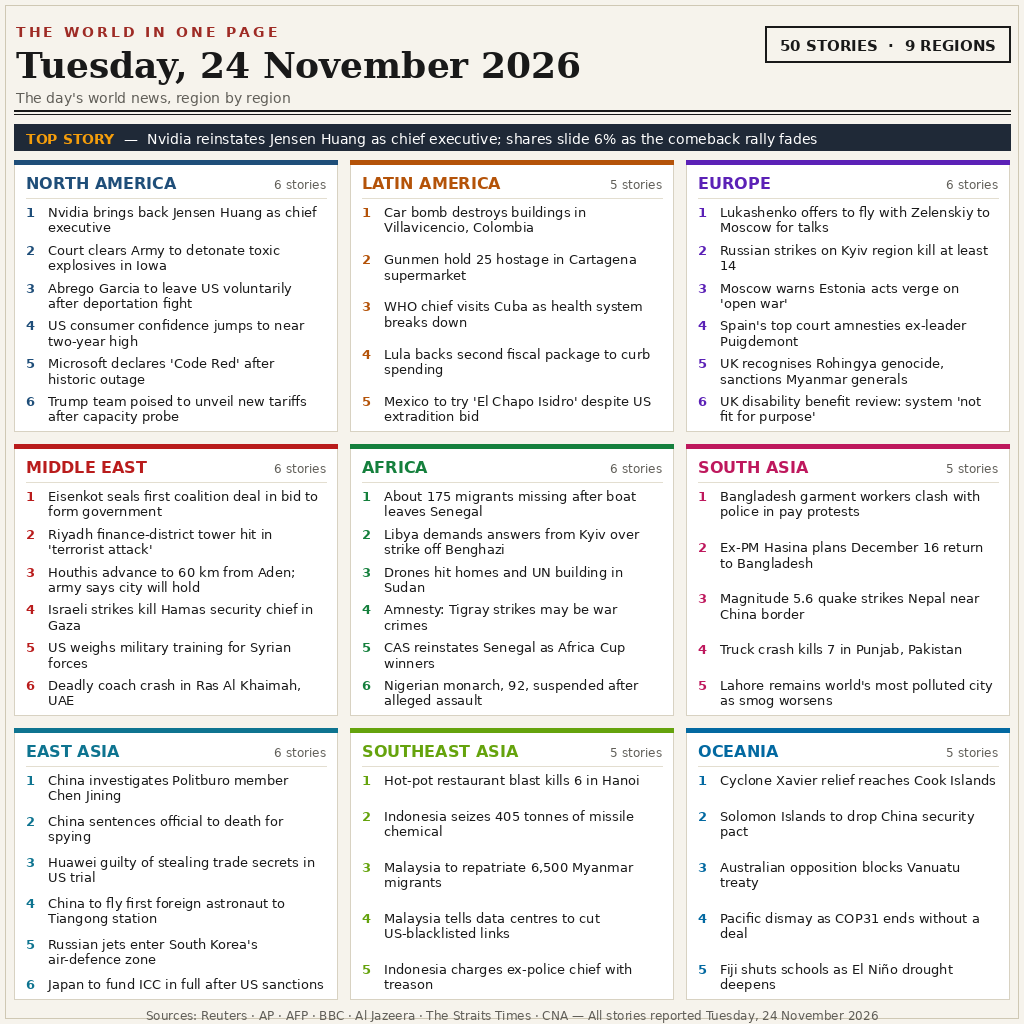
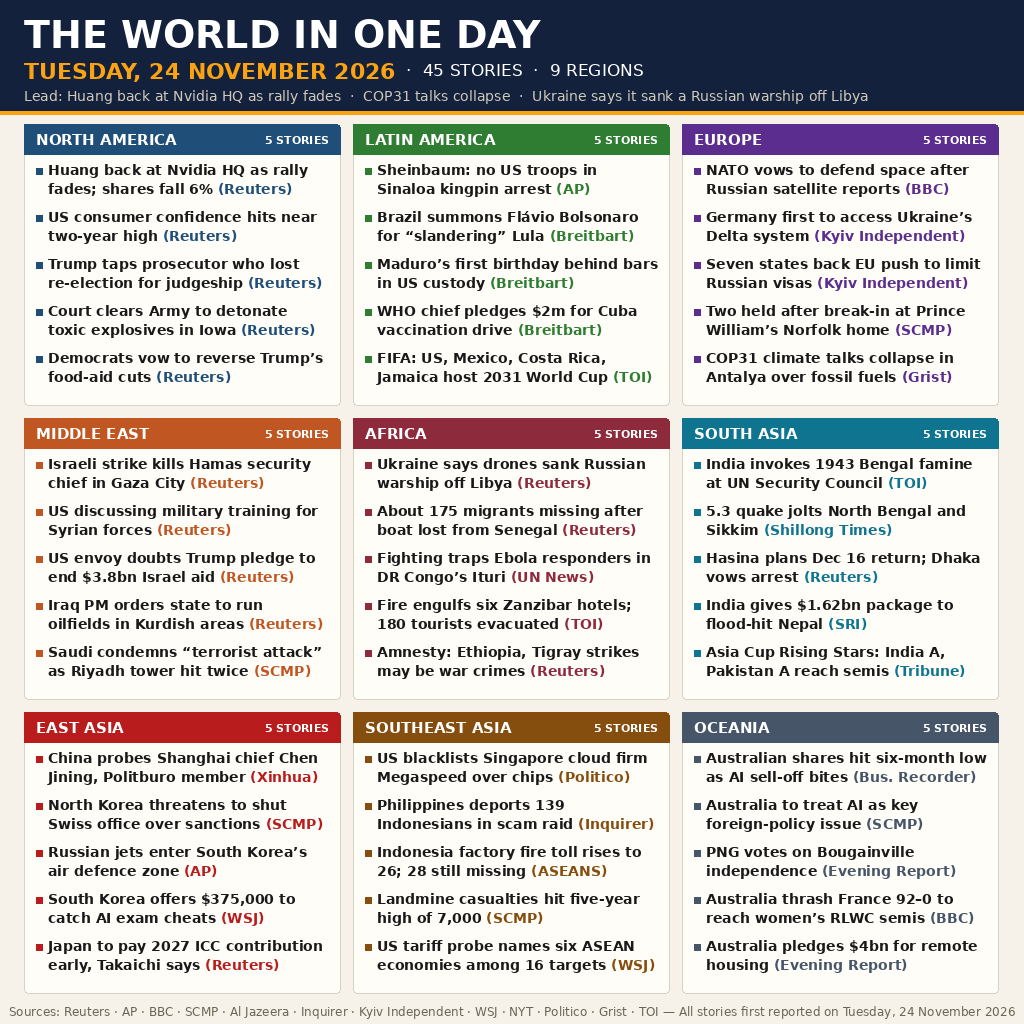
rev3: 45 stories, 9 regions — Tuesday 24 November 2026

diff --git a/draw.py b/draw.py
@@ -1,0 +1,242 @@
+#!/usr/bin/env python3
+"""Draw the 24 November 2026 world-news summary image (1024x1024 PNG).
+
+Reads nothing but the STORIES table below and writes entry.png next to this
+file (or to the path in argv[1]). Deterministic: fixed fonts, fixed layout,
+no timestamps, no randomness, so repeated runs are byte-identical.
+"""
+
+import hashlib
+import os
+import sys
+
+from PIL import Image, ImageDraw, ImageFont
+
+W = H = 1024
+BG = (246, 242, 233)
+CARD = (255, 253, 248)
+INK = (25, 25, 25)
+MUTED = (107, 101, 88)
+LINE = (216, 210, 196)
+HEADER = (20, 33, 61)
+AMBER = (252, 163, 17)
+LEAD_GREY = (207, 202, 187)
+
+FONT_DIR = "/usr/share/fonts/truetype/dejavu"
+BOLD = os.path.join(FONT_DIR, "DejaVuSans-Bold.ttf")
+REG = os.path.join(FONT_DIR, "DejaVuSans.ttf")
+
+# (region, colour, [(headline, source), ...]) — 5 stories each, 9 regions.
+REGIONS = [
+    ("NORTH AMERICA", (31, 78, 121), [
+        ("Huang back at Nvidia HQ as rally fades; shares fall 6%", "Reuters"),
+        ("US consumer confidence hits near two-year high", "Reuters"),
+        ("Trump taps prosecutor who lost re-election for judgeship", "Reuters"),
+        ("Court clears Army to detonate toxic explosives in Iowa", "Reuters"),
+        ("Democrats vow to reverse Trump’s food-aid cuts", "Reuters"),
+    ]),
+    ("LATIN AMERICA", (46, 125, 50), [
+        ("Sheinbaum: no US troops in Sinaloa kingpin arrest", "AP"),
+        ("Brazil summons Flávio Bolsonaro for “slandering” Lula", "Breitbart"),
+        ("Maduro’s first birthday behind bars in US custody", "Breitbart"),
+        ("WHO chief pledges $2m for Cuba vaccination drive", "Breitbart"),
+        ("FIFA: US, Mexico, Costa Rica, Jamaica host 2031 World Cup", "TOI"),
+    ]),
+    ("EUROPE", (91, 45, 142), [
+        ("NATO vows to defend space after Russian satellite reports", "BBC"),
+        ("Germany first to access Ukraine’s Delta system", "Kyiv Independent"),
+        ("Seven states back EU push to limit Russian visas", "Kyiv Independent"),
+        ("Two held after break-in at Prince William’s Norfolk home", "SCMP"),
+        ("COP31 climate talks collapse in Antalya over fossil fuels", "Grist"),
+    ]),
+    ("MIDDLE EAST", (192, 86, 33), [
+        ("Israeli strike kills Hamas security chief in Gaza City", "Reuters"),
+        ("US discussing military training for Syrian forces", "Reuters"),
+        ("US envoy doubts Trump pledge to end $3.8bn Israel aid", "Reuters"),
+        ("Iraq PM orders state to run oilfields in Kurdish areas", "Reuters"),
+        ("Saudi condemns “terrorist attack” as Riyadh tower hit twice", "SCMP"),
+    ]),
+    ("AFRICA", (141, 43, 61), [
+        ("Ukraine says drones sank Russian warship off Libya", "Reuters"),
+        ("About 175 migrants missing after boat lost from Senegal", "Reuters"),
+        ("Fighting traps Ebola responders in DR Congo’s Ituri", "UN News"),
+        ("Fire engulfs six Zanzibar hotels; 180 tourists evacuated", "TOI"),
+        ("Amnesty: Ethiopia, Tigray strikes may be war crimes", "Reuters"),
+    ]),
+    ("SOUTH ASIA", (14, 116, 144), [
+        ("India invokes 1943 Bengal famine at UN Security Council", "TOI"),
+        ("5.3 quake jolts North Bengal and Sikkim", "Shillong Times"),
+        ("Hasina plans Dec 16 return; Dhaka vows arrest", "Reuters"),
+        ("India gives $1.62bn package to flood-hit Nepal", "SRI"),
+        ("Asia Cup Rising Stars: India A, Pakistan A reach semis", "Tribune"),
+    ]),
+    ("EAST ASIA", (185, 28, 28), [
+        ("China probes Shanghai chief Chen Jining, Politburo member", "Xinhua"),
+        ("North Korea threatens to shut Swiss office over sanctions", "SCMP"),
+        ("Russian jets enter South Korea’s air defence zone", "AP"),
+        ("South Korea offers $375,000 to catch AI exam cheats", "WSJ"),
+        ("Japan to pay 2027 ICC contribution early, Takaichi says", "Reuters"),
+    ]),
+    ("SOUTHEAST ASIA", (133, 77, 14), [
+        ("US blacklists Singapore cloud firm Megaspeed over chips", "Politico"),
+        ("Philippines deports 139 Indonesians in scam raid", "Inquirer"),
+        ("Indonesia factory fire toll rises to 26; 28 still missing", "ASEANS"),
+        ("Landmine casualties hit five-year high of 7,000", "SCMP"),
+        ("US tariff probe names six ASEAN economies among 16 targets", "WSJ"),
+    ]),
+    ("OCEANIA", (71, 85, 105), [
+        ("Australian shares hit six-month low as AI sell-off bites", "Bus. Recorder"),
+        ("Australia to treat AI as key foreign-policy issue", "SCMP"),
+        ("PNG votes on Bougainville independence", "Evening Report"),
+        ("Australia thrash France 92–0 to reach women’s RLWC semis", "BBC"),
+        ("Australia pledges $4bn for remote housing", "Evening Report"),
+    ]),
+]
+
+TITLE = "THE WORLD IN ONE DAY"
+DATE_LINE = "TUESDAY, 24 NOVEMBER 2026"
+DATE_TAIL = "  ·  45 STORIES  ·  9 REGIONS"
+LEAD = ("Lead: Huang back at Nvidia HQ as rally fades  ·  COP31 talks collapse  ·  "
+        "Ukraine says it sank a Russian warship off Libya")
+FOOTER = ("Sources: Reuters · AP · BBC · SCMP · Al Jazeera · Inquirer · Kyiv Independent · "
+          "WSJ · NYT · Politico · Grist · TOI — All stories first reported on "
+          "Tuesday, 24 November 2026")
+
+
+def font(path, size):
+    return ImageFont.truetype(path, size)
+
+
+def wrap(text, fnt, max_w):
+    """Greedy word wrap; returns a list of lines, each within max_w."""
+    words = text.split(" ")
+    lines, cur = [], ""
+    for w in words:
+        trial = w if not cur else cur + " " + w
+        if fnt.getlength(trial) <= max_w or not cur:
+            cur = trial
+        else:
+            lines.append(cur)
+            cur = w
+    if cur:
+        lines.append(cur)
+    return lines
+
+
+def fit_story(text, source, max_w):
+    """Pick the largest size (14, 13.5, 13) whose wrap fits in 2 lines."""
+    full = "%s (%s)" % (text, source)
+    for size in (14, 13.5, 13):
+        fnt = font(BOLD, size)
+        lines = wrap(full, fnt, max_w)
+        if len(lines) <= 2:
+            return fnt, lines, size, False
+    fnt = font(BOLD, 13)
+    lines = wrap(full, fnt, max_w)[:2]
+    # hard-truncate the second line with an ellipsis
+    while len(lines) == 2 and fnt.getlength(lines[1] + " …") > max_w:
+        cut = lines[1].rsplit(" ", 1)[0]
+        if cut == lines[1]:
+            lines[1] = lines[1][:-1]
+        else:
+            lines[1] = cut
+    lines[1] = lines[1] + " …"
+    return fnt, lines, 13, True
+
+
+def draw_line_with_source(draw, x, y, line, fnt, colour):
+    """Draw one wrapped line; the trailing (Source) parenthetical in colour."""
+    words = line.split(" ")
+    src_idx = None
+    for i, w in enumerate(words):
+        if w.startswith("("):
+            src_idx = i
+            break
+    if src_idx is None:
+        draw.text((x, y), line, font=fnt, fill=INK)
+        return
+    head = " ".join(words[:src_idx])
+    tail = " ".join(words[src_idx:])
+    draw.text((x, y), head, font=fnt, fill=INK)
+    draw.text((x + fnt.getlength(head + " "), y), tail, font=fnt, fill=colour)
+
+
+def draw_card(draw, x, y, w, h, name, colour, stories):
+    draw.rounded_rectangle([x, y, x + w - 1, y + h - 1], radius=4,
+                           fill=CARD, outline=LINE, width=1)
+    # region header band
+    draw.rounded_rectangle([x, y, x + w - 1, y + 30], radius=4, fill=colour)
+    draw.rectangle([x, y + 20, x + w - 1, y + 30], fill=colour)
+    draw.rectangle([x, y, x + 6, y + 30], fill=colour)
+    hf = font(BOLD, 15)
+    draw.text((x + 12, y + 7), name, font=hf, fill=(255, 255, 255))
+    cf = font(BOLD, 11)
+    tag = "5 STORIES"
+    draw.text((x + w - 12 - cf.getlength(tag), y + 9), tag, font=cf,
+              fill=(255, 255, 255))
+    # stories
+    text_w = w - 24 - 12
+    story_y = y + 38
+    line_h = 19
+    gap = 9
+    report = []
+    for text, source in stories:
+        fnt, lines, size, truncated = fit_story(text, source, text_w)
+        report.append((text, size, len(lines), truncated))
+        draw.rectangle([x + 12, story_y + 6, x + 18, story_y + 12], fill=colour)
+        for i, ln in enumerate(lines):
+            draw_line_with_source(draw, x + 24, story_y + i * line_h, ln,
+                                  fnt, colour)
+        story_y += 2 * line_h + gap
+    return report
+
+
+def main():
+    out = sys.argv[1] if len(sys.argv) > 1 else os.path.join(
+        os.path.dirname(os.path.abspath(__file__)), "entry.png")
+    img = Image.new("RGB", (W, H), BG)
+    d = ImageDraw.Draw(img)
+
+    # header band
+    d.rectangle([0, 0, W - 1, 111], fill=HEADER)
+    d.rectangle([0, 111, W - 1, 114], fill=AMBER)
+    d.text((24, 12), TITLE, font=font(BOLD, 38), fill=(255, 255, 255))
+    d.text((24, 58), DATE_LINE, font=font(BOLD, 22), fill=AMBER)
+    dw = font(BOLD, 22).getlength(DATE_LINE)
+    d.text((24 + dw, 60), DATE_TAIL, font=font(REG, 17), fill=(255, 255, 255))
+    d.text((24, 88), LEAD, font=font(REG, 14), fill=LEAD_GREY)
+
+    # 3x3 grid of region cards
+    margin, gap = 24, 12
+    cw = (W - 2 * margin - 2 * gap) // 3
+    ch = 282
+    top = 124
+    report = []
+    for i, (name, colour, stories) in enumerate(REGIONS):
+        cx = margin + (i % 3) * (cw + gap)
+        cy = top + (i // 3) * (ch + gap)
+        report += draw_card(d, cx, cy, cw, ch, name, colour, stories)
+
+    # footer
+    ff = font(REG, 12)
+    fw = ff.getlength(FOOTER)
+    d.text(((W - fw) / 2, 1004), FOOTER, font=ff, fill=MUTED)
+
+    img.save(out, "PNG")
+    data = open(out, "rb").read()
+    print("stories:", sum(len(r[2]) for r in REGIONS))
+    print("regions:", len(REGIONS))
+    print("bytes:", len(data))
+    print("sha256:", hashlib.sha256(data).hexdigest())
+    bad = [r for r in report if r[3] or r[2] > 2]
+    small = [r for r in report if r[1] < 14]
+    print("truncated/overflowing:", len(bad))
+    for r in bad:
+        print("  OVERFLOW:", r)
+    print("shrunk below 14px:", len(small))
+    for r in small:
+        print("  SHRUNK:", r)
+
+
+if __name__ == "__main__":
+    main()

diff --git a/main.py b/main.py
@@ -1,20 +1,24 @@
 #!/usr/bin/env python3
-"""news-image-20261124 rev2 entrypoint (Python 3.13, standard library only).
+"""Entrypoint: copy the pre-rendered entry.png to the output directory.
 
-The entry image is the entry.png beside this file: a 1024x1024 rendering of
-50 stories from Tuesday, 24 November 2026, grouped into 9 regions. The
-program copies it to the output directory, as the kit's starter does; a copy
-is byte-identical every run, so the grader's two runs always agree.
-
-Outside the grader's container, MAKEFUN_OUTPUT_DIR stands in for /output:
-  mkdir -p out && MAKEFUN_OUTPUT_DIR=out python3 main.py
+The grader runs this with no network and standard library only, twice;
+both runs copy the same bytes, so the output is identical every time.
 """
+
 import os
 import shutil
 
 HERE = os.path.dirname(os.path.abspath(__file__))
-OUT = os.environ.get("MAKEFUN_OUTPUT_DIR", "/output")
 
-os.makedirs(OUT, exist_ok=True)
-shutil.copyfile(os.path.join(HERE, "entry.png"),
-                os.path.join(OUT, "entry.png"))
+
+def main():
+    out_dir = os.environ.get("MAKEFUN_OUTPUT_DIR", "/output")
+    os.makedirs(out_dir, exist_ok=True)
+    shutil.copyfile(
+        os.path.join(HERE, "entry.png"),
+        os.path.join(out_dir, "entry.png"),
+    )
+
+
+if __name__ == "__main__":
+    main()

diff --git a/stories.md b/stories.md
@@ -1,0 +1,70 @@
+# World news — Tuesday, 24 November 2026
+
+45 stories, 5 per region, 9 regions. Every story happened on, or was first
+reported on, 24 November 2026 (any time zone). Sources checked via Reuters,
+AP, BBC, SCMP, Al Jazeera, The Inquirer, Kyiv Independent, WSJ, NYT,
+Politico, Grist, Times of India, UN News, Middle East Eye, Tribune,
+Business Recorder, Evening Report NZ, Breitbart, ASEANS, SRI.
+
+## North America (5)
+1. Huang back at Nvidia HQ as rally fades; shares fall 6% — Reuters
+2. US consumer confidence hits near two-year high — Reuters
+3. Trump taps prosecutor who lost re-election for judgeship — Reuters
+4. Court clears Army to detonate toxic explosives in Iowa — Reuters
+5. Democrats vow to reverse Trump’s food-aid cuts — Reuters
+
+## Latin America (5)
+1. Sheinbaum: no US troops in Sinaloa kingpin arrest — AP
+2. Brazil summons Flávio Bolsonaro for "slandering" Lula — Breitbart
+3. Maduro’s first birthday behind bars in US custody — Breitbart
+4. WHO chief pledges $2m for Cuba vaccination drive — Breitbart
+5. FIFA: US, Mexico, Costa Rica, Jamaica host 2031 World Cup — TOI
+
+## Europe (5)
+1. NATO vows to defend space after Russian satellite reports — BBC
+2. Germany first to access Ukraine's Delta system — Kyiv Independent
+3. Seven states back EU push to limit Russian visas — Kyiv Independent
+4. Two held after break-in at Prince William's Norfolk home — SCMP
+5. COP31 climate talks collapse in Antalya over fossil fuels — Grist
+
+## Middle East (5)
+1. Israeli strike kills Hamas security chief in Gaza City — Reuters
+2. US discussing military training for Syrian forces — Reuters
+3. US envoy doubts Trump pledge to end $3.8bn Israel aid — Reuters
+4. Iraq PM orders state to run oilfields in Kurdish areas — Reuters
+5. Saudi condemns "terrorist attack" as Riyadh tower hit twice — SCMP
+
+## Africa (5)
+1. Ukraine says drones sank Russian warship off Libya — Reuters
+2. About 175 migrants missing after boat lost from Senegal — Reuters
+3. Fighting traps Ebola responders in DR Congo's Ituri — UN News
+4. Fire engulfs six Zanzibar hotels; 180 tourists evacuated — TOI
+5. Amnesty: Ethiopia, Tigray strikes may be war crimes — Reuters
+
+## South Asia (5)
+1. India invokes 1943 Bengal famine at UN Security Council — TOI
+2. 5.3 quake jolts North Bengal and Sikkim — Shillong Times
+3. Hasina plans Dec 16 return; Dhaka vows arrest — Reuters
+4. India gives $1.62bn package to flood-hit Nepal — SRI
+5. Asia Cup Rising Stars: India A, Pakistan A reach semis — Tribune
+
+## East Asia (5)
+1. China probes Shanghai chief Chen Jining, Politburo member — Xinhua
+2. North Korea threatens to shut Swiss office over sanctions — SCMP
+3. Russian jets enter South Korea's air defence zone — AP
+4. South Korea offers $375,000 to catch AI exam cheats — WSJ
+5. Japan to pay 2027 ICC contribution early, Takaichi says — Reuters
+
+## Southeast Asia (5)
+1. US blacklists Singapore cloud firm Megaspeed over chips — Politico
+2. Philippines deports 139 Indonesians in scam raid — Inquirer
+3. Indonesia factory fire toll rises to 26; 28 still missing — ASEANS
+4. Landmine casualties hit five-year high of 7,000 — SCMP
+5. US tariff probe names six ASEAN economies among 16 targets — WSJ
+
+## Oceania (5)
+1. Australian shares hit six-month low as AI sell-off bites — Bus. Recorder
+2. Australia to treat AI as key foreign-policy issue — SCMP
+3. PNG votes on Bougainville independence — Evening Report
+4. Australia thrash France 92–0 to reach women's RLWC semis — BBC
+5. Australia pledges $4bn for remote housing — Evening Report

diff --git a/README.md b/README.md
@@ -1,28 +1,26 @@
-[![make.fun](https://make.fun/badge/news-image-20261124.svg)](https://make.fun/bounty/news-image-20261124)
+# news-image-20261124 — rev3
+
+[![news-image-20261124](https://make.fun/badge/news-image-20261124.svg)](https://make.fun/bounty/news-image-20261124)
 [![rank](https://make.fun/badge/news-image-20261124/mag0k0romi7-gif/news-image-20261124/rank.svg)](https://make.fun/bounty/news-image-20261124)
 [![reward](https://make.fun/badge/news-image-20261124/mag0k0romi7-gif/news-image-20261124/reward.svg)](https://make.fun/bounty/news-image-20261124)
 
-# The World in One Page — Tuesday, 24 November 2026
+Sum up Tuesday 24 November 2026's world news in one image: 45 stories from
+9 regions (North America, Latin America, Europe, Middle East, Africa, South
+Asia, East Asia, Southeast Asia, Oceania), each with its source, drawn as a
+single 1024×1024 newspaper front page.
 
-A single 1024×1024 image summing up the world's news of Tuesday, 24 November 2026:
-50 stories from 9 regions (North America, Latin America, Europe, Middle East,
-Africa, South Asia, East Asia, Southeast Asia, Oceania), led by Nvidia bringing
-back Jensen Huang as chief executive. Every story was reported on 24 November 2026.
+## How it works
 
-## How it is made
+- `draw.py` draws `entry.png` from the story table in `stories.md`
+  (45 date-checked stories, 5 per region) using Pillow. Run it twice and the
+  bytes are identical.
+- `main.py` is the entrypoint: it copies `entry.png` to the output directory
+  (`$MAKEFUN_OUTPUT_DIR`, default `/output`), standard library only.
+- `stories.md` lists every story with its source.
 
-- `render.py` draws `entry.png` with Pillow (DejaVu fonts): a newspaper-style
-  grid with one panel per region, numbered headlines, a top-story strip and a
-  sources footer. Run it with `python3 render.py`; two runs are byte-identical.
-- `main.py` (Python 3.13, standard library only) is the entrypoint: it copies
-  `entry.png` to the output directory, following the kit's starter pattern.
-- `entry.png` is the rendered image the entry ships.
+## Run
 
-## Sources
-
-Reuters, AP, AFP, BBC, Al Jazeera, The Straits Times, CNA.
-
-## Competition
-
-Entered in [news-image-20261124](https://make.fun/bounty/news-image-20261124) on
-[make.fun](https://make.fun).
+```sh
+python3 draw.py            # writes entry.png (deterministic)
+MAKEFUN_OUTPUT_DIR=out python3 main.py   # writes out/entry.png
+```
